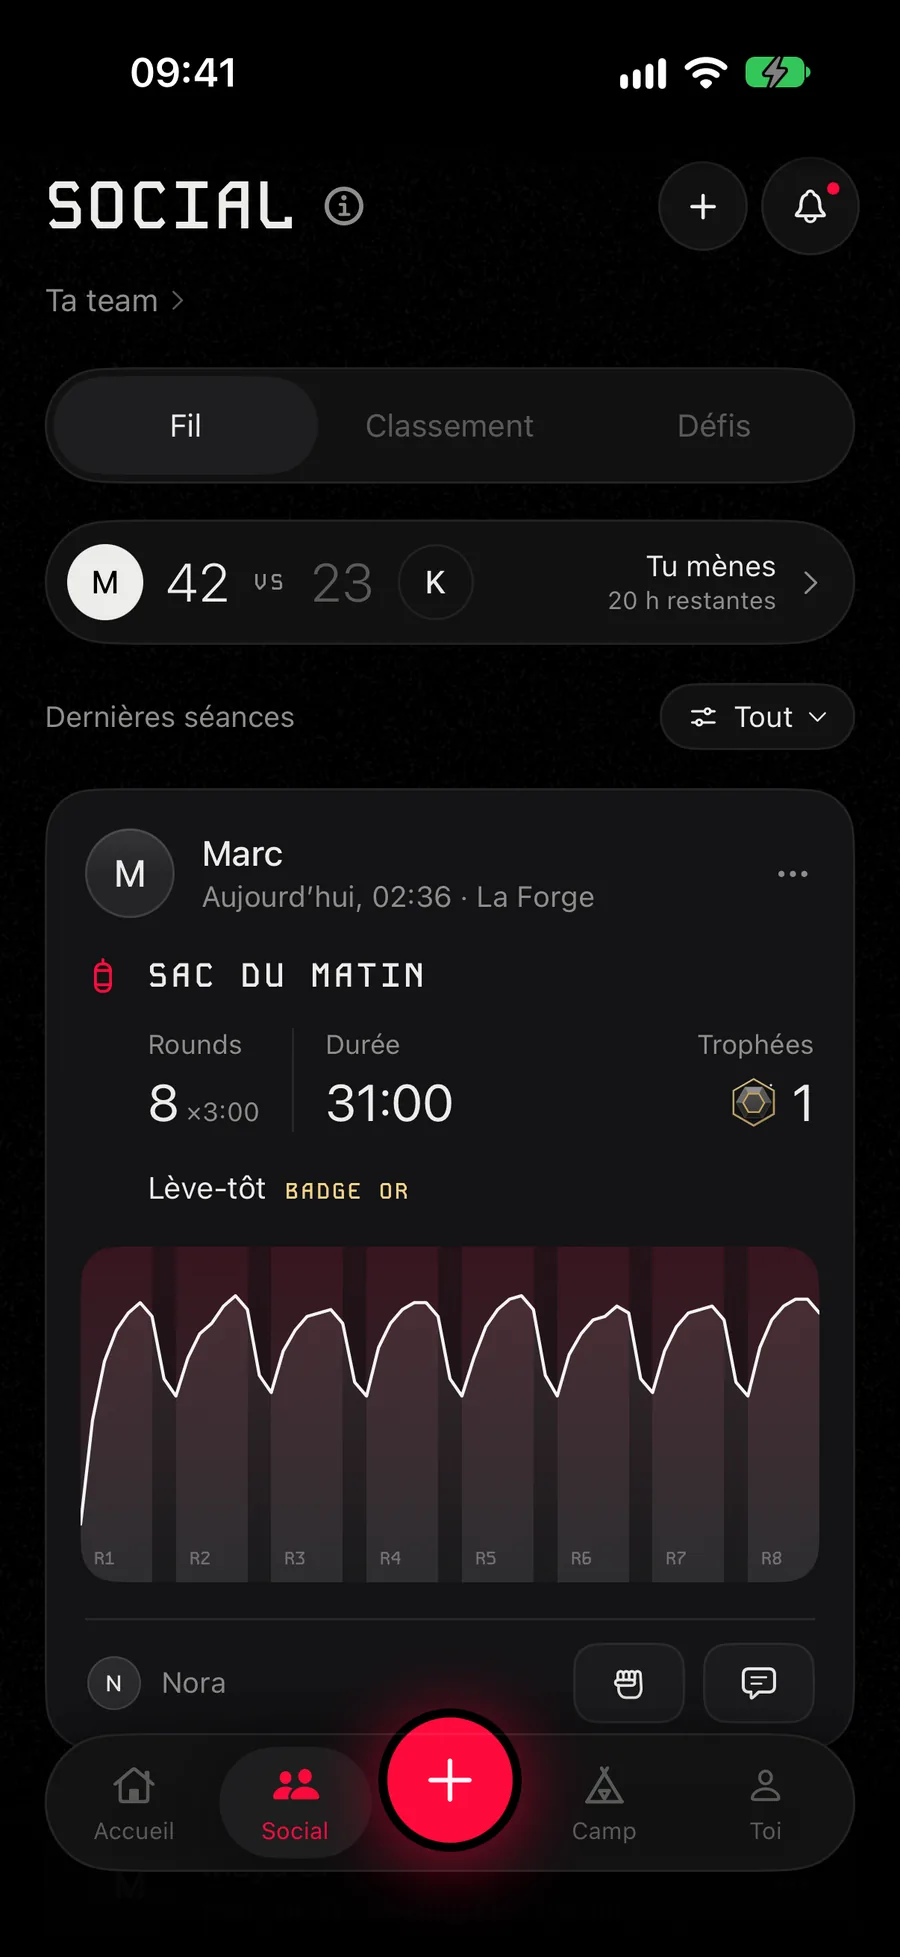
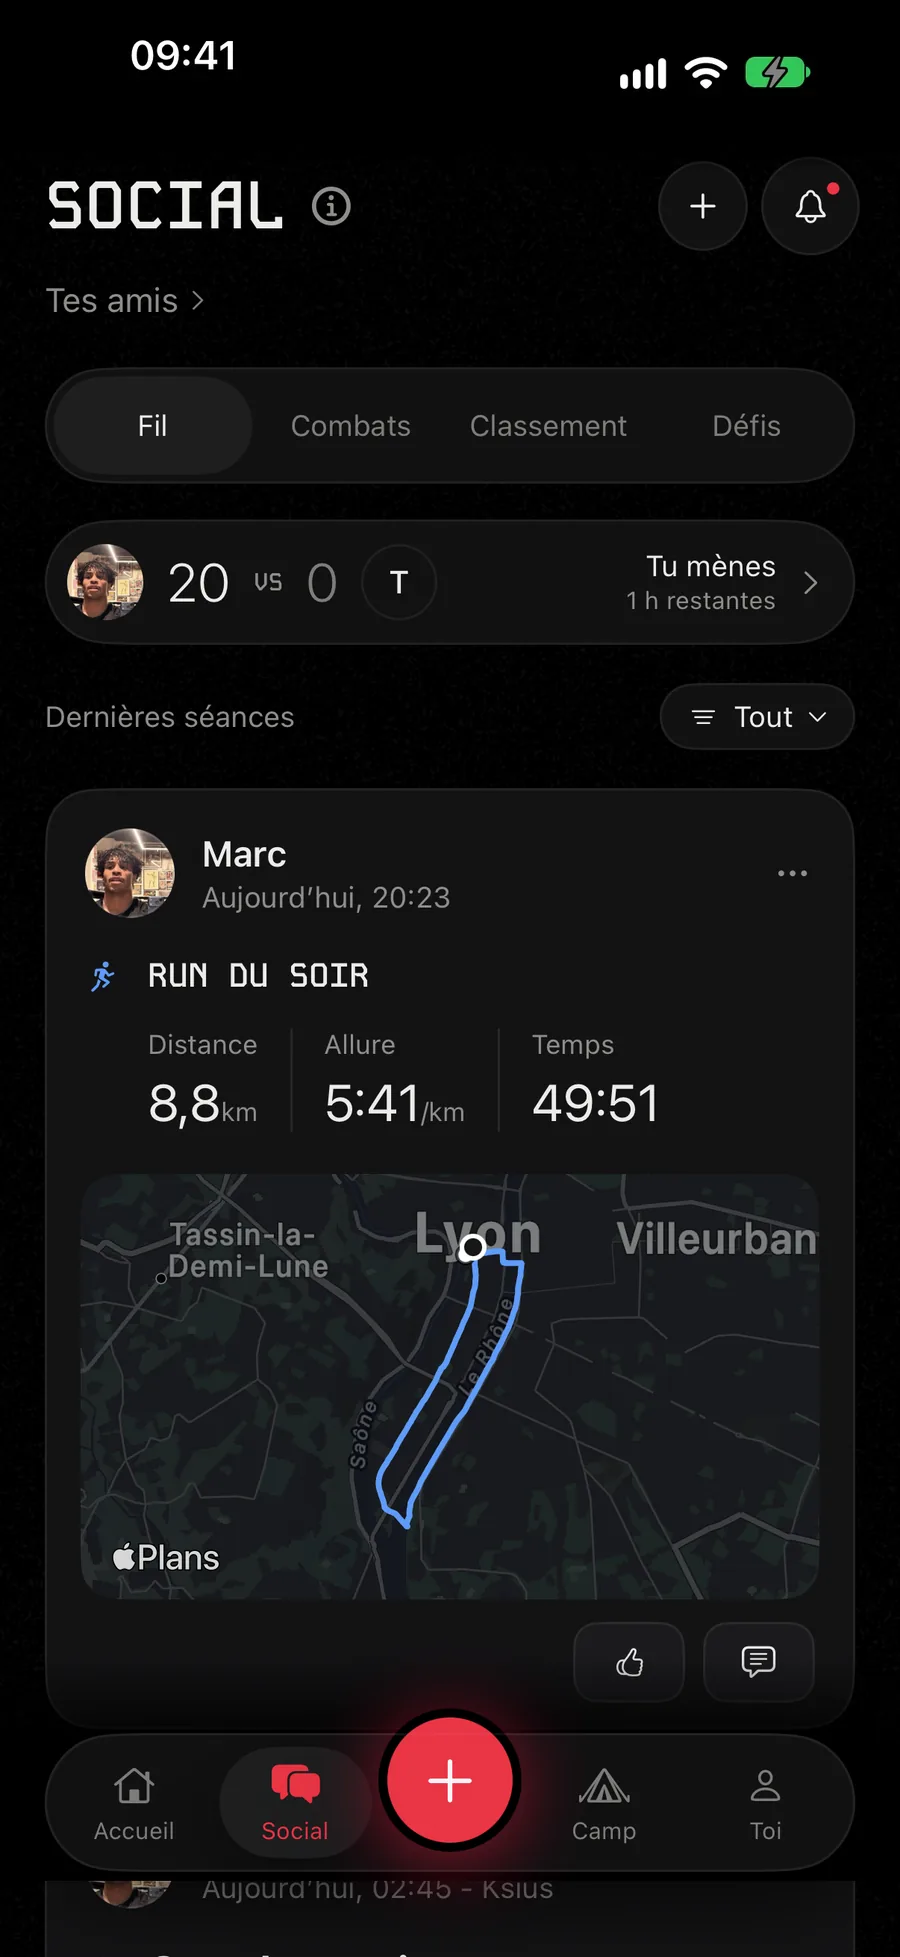
Site : nouvelles captures de l'app (25 octobre 2026) et galerie Run

diff --git a/index.html b/index.html
@@ -110,8 +110,8 @@
         <p class="label si-bientot" data-in style="--d:.3s">Sortie prochaine sur l’App Store</p>
       </div>
       <div class="iphone" data-in style="--d:.2s">
-        <div class="iphone__corps"><img src="img/app/accueil.webp" width="900" height="1957" fetchpriority="high" alt="Écran Accueil de RNDS : séance faite aujourd’hui, bouton Lancer une séance, accès au Run GPS et charge de la semaine à 140 %, avec la barre Accueil, Social, +, Camp et Toi."><span class="iphone__bouton"></span></div>
-        <p class="legende">Capture réelle du 11 octobre 2026<sup class="appel"><a href="#note-4" aria-label="Note 4">4</a></sup></p>
+        <div class="iphone__corps"><img src="img/app/accueil.webp" width="900" height="1957" fetchpriority="high" alt="Écran Accueil de RNDS : objectif de 20 rounds sur 30, série d’un jour, charge de la semaine à 67 %, bouton Lancer une séance (15 × 2:00), accès au Run GPS et au Camp, avec la barre Accueil, Social, +, Camp et Toi."><span class="iphone__bouton"></span></div>
+        <p class="legende">Capture réelle du 25 octobre 2026<sup class="appel"><a href="#note-4" aria-label="Note 4">4</a></sup></p>
       </div>
     </div>
   </section>
@@ -120,7 +120,7 @@
   <section class="sec sec--carbone" id="timer">
     <div class="wrap timer">
       <div class="iphone" data-in>
-        <div class="iphone__corps"><img src="img/app/timer.webp" width="900" height="1957" loading="lazy" decoding="async" alt="Le timer en cours sur fond rouge : sparring, round 1 sur 6, 2:56 restantes dans le round, repos de 1:00 ensuite, ta musique continue."><span class="iphone__bouton"></span></div>
+        <div class="iphone__corps"><img src="img/app/timer.webp" width="900" height="1957" loading="lazy" decoding="async" alt="Le timer en cours : sac en garde, round 1 sur 15, 40:33 restantes au total, cardio à 85 BPM en zone 1, rounds de 2:00 et repos de 0:45, ta musique continue."><span class="iphone__bouton"></span></div>
       </div>
       <div class="timer__droite">
         <div class="sec__tete" style="margin-bottom:0" data-in>
@@ -229,6 +229,24 @@
         <li data-in><h3>Endurance</h3><p>40 min faciles&nbsp;: la base du cardio.</p><span class="label">Zone 2</span></li>
       </ul>
       <p class="note" data-in>À chaque kilomètre, un bip, puis la voix annonce la distance et le temps.</p>
+      <div class="galerie galerie--apres">
+        <figure data-in>
+          <div class="iphone"><div class="iphone__corps"><img src="img/app/seances.webp" width="900" height="1957" loading="lazy" decoding="async" alt="Écran Mes séances : séances prêtes à lancer, rangées par sport (boxe, grappling, run, renfo), et tes modèles."><span class="iphone__bouton"></span></div></div>
+          <figcaption><b>Mes séances</b><span>Tes séances prêtes à lancer, rangées par sport&nbsp;: boxe, grappling, run et renfo.</span></figcaption>
+        </figure>
+        <figure data-in style="--d:.06s">
+          <div class="iphone"><div class="iphone__corps"><img src="img/app/run-cardio.webp" width="900" height="1957" loading="lazy" decoding="async" alt="Détail d’un run : cardio moyen de 163 BPM et max de 179, courbe sur 45 minutes, temps passé dans chaque zone (85 % en zone 4) et allure par kilomètre."><span class="iphone__bouton"></span></div></div>
+          <figcaption><b>Cardio et zones</b><span>Ta courbe cardio, le temps passé dans chaque zone et ton allure kilomètre par kilomètre.<sup class="appel"><a href="#note-1" aria-label="Note 1">1</a></sup></span></figcaption>
+        </figure>
+        <figure data-in style="--d:.12s">
+          <div class="iphone"><div class="iphone__corps"><img src="img/app/run-affiche.webp" width="900" height="1957" loading="lazy" decoding="async" alt="Story au format 9:16, modèle Affiche tracé : le tracé du run avec le départ, la ville, 8,75 km et la date."><span class="iphone__bouton"></span></div></div>
+          <figcaption><b>Affiche tracé</b><span>Ton tracé en story 9:16, avec la ville, la distance et la date.</span></figcaption>
+        </figure>
+        <figure data-in style="--d:.18s">
+          <div class="iphone"><div class="iphone__corps"><img src="img/app/run-carte.webp" width="900" height="1957" loading="lazy" decoding="async" alt="Story au format 9:16, modèle Carte et profil : temps de 49:51, allure de 5:41 au km, une phrase et la courbe d’allure avec le kilomètre le plus rapide."><span class="iphone__bouton"></span></div></div>
+          <figcaption><b>Carte et profil</b><span>Ton temps, ton allure et la courbe de ta sortie, prêts à partager.</span></figcaption>
+        </figure>
+      </div>
     </div>
   </section>
 
@@ -279,7 +297,7 @@
           <figcaption><b>Journal</b><span>Tes rounds de la semaine face à ton objectif, et le total du mois.</span></figcaption>
         </figure>
         <figure data-in style="--d:.06s">
-          <div class="iphone"><div class="iphone__corps"><img src="img/app/social.webp" width="900" height="1957" loading="lazy" decoding="async" alt="Écran Social : onglets Fil, Classement et Défis, duel en cours à 42 contre 23, et une séance de sac partagée dans le fil avec sa courbe cardio et le bouton Respect."><span class="iphone__bouton"></span></div></div>
+          <div class="iphone"><div class="iphone__corps"><img src="img/app/social.webp" width="900" height="1957" loading="lazy" decoding="async" alt="Écran Social : onglets Fil, Combats, Classement et Défis, duel en cours à 20 contre 0, et un run du soir partagé dans le fil avec sa distance, son allure, son temps et son tracé sur la carte."><span class="iphone__bouton"></span></div></div>
           <figcaption><b>Défis</b><span>Des défis comme 5 jours sur 7 ou 100 rounds en 7 jours, seul ou en duel avec tes partenaires de salle.</span></figcaption>
         </figure>
         <figure data-in style="--d:.12s">
@@ -404,7 +422,7 @@
         <li id="note-1">Apple Watch sous watchOS 26 nécessaire pour le cardio au poignet. Sans montre, une ceinture cardio Bluetooth compatible fait l’affaire.</li>
         <li id="note-2">L’estimation se fait sur l’iPhone&nbsp;: par le modèle d’Apple quand l’appareil le permet, sinon par reconnaissance d’image et une base d’aliments. Elle reste indicative.</li>
         <li id="note-3">Les conseils de sommeil et d’entraînement ne sont pas un avis médical.</li>
-        <li id="note-4">Captures réelles de l’app, prises sur iPhone les 6 et 11 octobre 2026. Celles du 11 octobre (accueil, timer, Camp, journal, Social) montrent des données de démonstration. Seules l’heure et la musique en cours ont été masquées.</li>
+        <li id="note-4">Captures réelles de l’app, prises sur iPhone les 6, 11 et 25 octobre 2026. Celles du 11 octobre (Camp, journal) montrent des données de démonstration. Seules l’heure et la musique en cours ont été masquées.</li>
         <li id="note-5">Vidéo de la bannière&nbsp;: NXTLVL Media.</li>
       </ol>
       <p class="pied__marques">Apple, le logo Apple, Apple Watch, iPhone et Santé sont des marques d’Apple Inc., déposées aux États-Unis et dans d’autres pays. App Store est une marque de service d’Apple Inc.</p>

diff --git a/en/index.html b/en/index.html
@@ -110,8 +110,8 @@
         <p class="label si-bientot" data-in style="--d:.3s">Coming soon to the App Store</p>
       </div>
       <div class="iphone" data-in style="--d:.2s">
-        <div class="iphone__corps"><img src="/img/app/accueil.webp" width="900" height="1957" fetchpriority="high" alt="RNDS Home screen, in French: today’s session done, the Start a Session button, GPS Run and this week’s load at 140%, with the Home, Social, +, Camp and You tab bar."><span class="iphone__bouton"></span></div>
-        <p class="legende">Real screenshot, October 11, 2026<sup class="appel"><a href="#note-4" aria-label="Note 4">4</a></sup></p>
+        <div class="iphone__corps"><img src="/img/app/accueil.webp" width="900" height="1957" fetchpriority="high" alt="RNDS Home screen, in French: goal of 20 rounds out of 30, a one-day streak, this week’s load at 67%, the Start a Session button (15 × 2:00), GPS Run and Camp, with the Home, Social, +, Camp and You tab bar."><span class="iphone__bouton"></span></div>
+        <p class="legende">Real screenshot, October 25, 2026<sup class="appel"><a href="#note-4" aria-label="Note 4">4</a></sup></p>
       </div>
     </div>
   </section>
@@ -120,7 +120,7 @@
   <section class="sec sec--carbone" id="timer">
     <div class="wrap timer">
       <div class="iphone" data-in>
-        <div class="iphone__corps"><img src="/img/app/timer.webp" width="900" height="1957" loading="lazy" decoding="async" alt="The timer running on a red screen, in French: sparring, round 1 of 6, 2:56 left in the round, 1:00 rest next, your music keeps playing."><span class="iphone__bouton"></span></div>
+        <div class="iphone__corps"><img src="/img/app/timer.webp" width="900" height="1957" loading="lazy" decoding="async" alt="The timer running, in French: bag work in guard, round 1 of 15, 40:33 left in total, heart rate at 85 BPM in zone 1, 2:00 rounds and 0:45 rest, your music keeps playing."><span class="iphone__bouton"></span></div>
       </div>
       <div class="timer__droite">
         <div class="sec__tete" style="margin-bottom:0" data-in>
@@ -229,6 +229,24 @@
         <li data-in><h3>Endurance</h3><p>40 easy minutes to build your aerobic base.</p><span class="label">Zone 2</span></li>
       </ul>
       <p class="note" data-in>At every kilometer, a beep, then a voice reads out your distance and time.</p>
+      <div class="galerie galerie--apres">
+        <figure data-in>
+          <div class="iphone"><div class="iphone__corps"><img src="/img/app/seances.webp" width="900" height="1957" loading="lazy" decoding="async" alt="My Sessions screen, in French: sessions ready to start, sorted by sport (boxing, grappling, run, strength), and your templates."><span class="iphone__bouton"></span></div></div>
+          <figcaption><b>My sessions</b><span>Your sessions ready to start, sorted by sport: boxing, grappling, running and strength.</span></figcaption>
+        </figure>
+        <figure data-in style="--d:.06s">
+          <div class="iphone"><div class="iphone__corps"><img src="/img/app/run-cardio.webp" width="900" height="1957" loading="lazy" decoding="async" alt="Run details, in French: average heart rate of 163 BPM and max of 179, a 45-minute curve, time spent in each zone (85% in zone 4) and pace per kilometer."><span class="iphone__bouton"></span></div></div>
+          <figcaption><b>Heart rate and zones</b><span>Your heart rate curve, time in each zone and your pace kilometer by kilometer.<sup class="appel"><a href="#note-1" aria-label="Note 1">1</a></sup></span></figcaption>
+        </figure>
+        <figure data-in style="--d:.12s">
+          <div class="iphone"><div class="iphone__corps"><img src="/img/app/run-affiche.webp" width="900" height="1957" loading="lazy" decoding="async" alt="A 9:16 story, Route Poster template, in French: the run’s route with the start, the city, 8.75 km and the date."><span class="iphone__bouton"></span></div></div>
+          <figcaption><b>Route poster</b><span>Your route as a 9:16 story, with the city, distance and date.</span></figcaption>
+        </figure>
+        <figure data-in style="--d:.18s">
+          <div class="iphone"><div class="iphone__corps"><img src="/img/app/run-carte.webp" width="900" height="1957" loading="lazy" decoding="async" alt="A 9:16 story, Map and Profile template, in French: a time of 49:51, a pace of 5:41 per km, a quote and the pace curve with the fastest kilometer."><span class="iphone__bouton"></span></div></div>
+          <figcaption><b>Map and profile</b><span>Your time, pace and run curve, ready to share.</span></figcaption>
+        </figure>
+      </div>
     </div>
   </section>
 
@@ -279,7 +297,7 @@
           <figcaption><b>Journal</b><span>Your rounds this week against your goal, and your totals for the month.</span></figcaption>
         </figure>
         <figure data-in style="--d:.06s">
-          <div class="iphone"><div class="iphone__corps"><img src="/img/app/social.webp" width="900" height="1957" loading="lazy" decoding="async" alt="Social screen, in French: Feed, Leaderboard and Challenges tabs, a head-to-head at 42 to 23, and a bag session shared in the feed with its heart-rate curve and the Respect button."><span class="iphone__bouton"></span></div></div>
+          <div class="iphone"><div class="iphone__corps"><img src="/img/app/social.webp" width="900" height="1957" loading="lazy" decoding="async" alt="Social screen, in French: Feed, Fights, Leaderboard and Challenges tabs, a duel in progress at 20 to 0, and an evening run shared in the feed with its distance, pace, time and route on the map."><span class="iphone__bouton"></span></div></div>
           <figcaption><b>Challenges</b><span>Challenges like 5 days out of 7 or 100 rounds in 7 days, solo or head-to-head with your gym partners.</span></figcaption>
         </figure>
         <figure data-in style="--d:.12s">
@@ -404,7 +422,7 @@
         <li id="note-1">Requires an Apple Watch with watchOS 26 for heart rate on the wrist. Without a watch, a compatible Bluetooth heart rate strap does the job.</li>
         <li id="note-2">The estimate is made on the iPhone: by Apple’s on-device model when the device supports it, otherwise by image recognition and a food database. It’s only an estimate.</li>
         <li id="note-3">Sleep and training tips are not medical advice.</li>
-        <li id="note-4">Real screenshots of the app, taken on iPhone on October 6 and 11, 2026, with the app set to French. The October 11 ones (home, timer, Camp, journal, Social) show demo data. Only the time and the music playing have been hidden.</li>
+        <li id="note-4">Real screenshots of the app, taken on iPhone on October 6, 11 and 25, 2026, with the app set to French. The October 11 ones (Camp, journal) show demo data. Only the time and the music playing have been hidden.</li>
         <li id="note-5">Hero video: NXTLVL Media.</li>
       </ol>
       <p class="pied__marques">Apple, the Apple logo, Apple Watch, iPhone and Health are trademarks of Apple Inc., registered in the U.S. and other countries. App Store is a service mark of Apple Inc.</p>

diff --git a/css/style.css b/css/style.css
@@ -185,6 +185,7 @@ ul, ol { list-style: none; }
 /* Galeries de captures */
 .galerie { display: grid; grid-template-columns: repeat(4, 1fr); gap: clamp(16px, 2.4vw, 32px); }
 .galerie--3 { grid-template-columns: repeat(3, 1fr); }
+.galerie--apres { margin-top: clamp(56px, 7vw, 96px); }
 .galerie--3 .iphone { --w: 340px; }
 .galerie figure { display: grid; gap: 24px; align-content: start; }
 .galerie .iphone { --w: 300px; }
